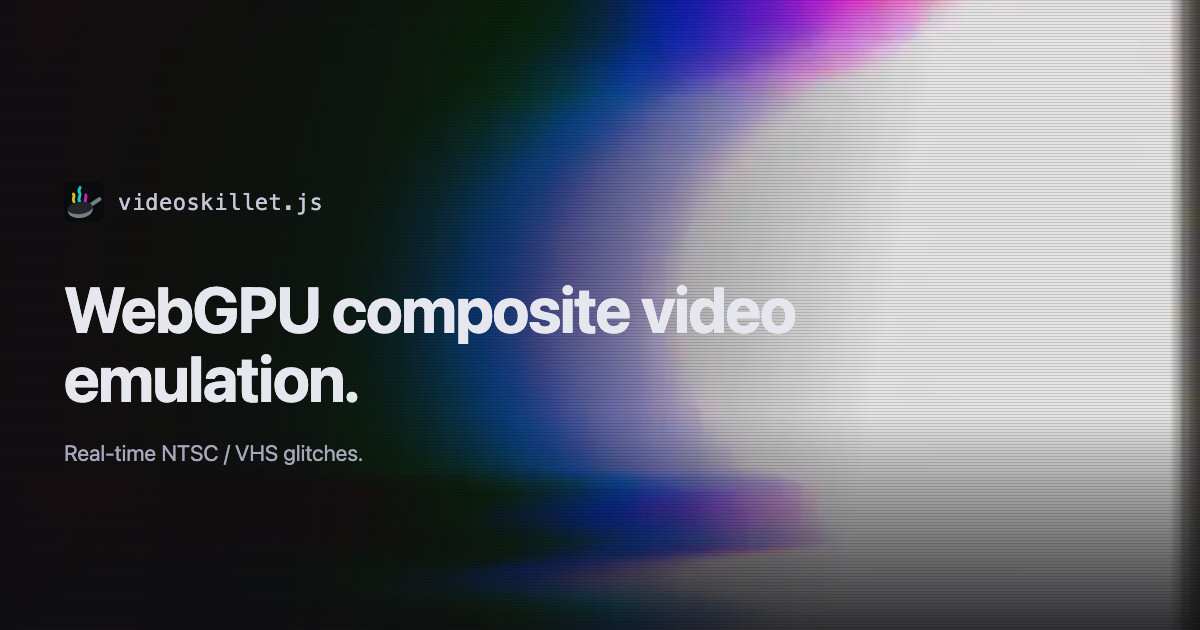
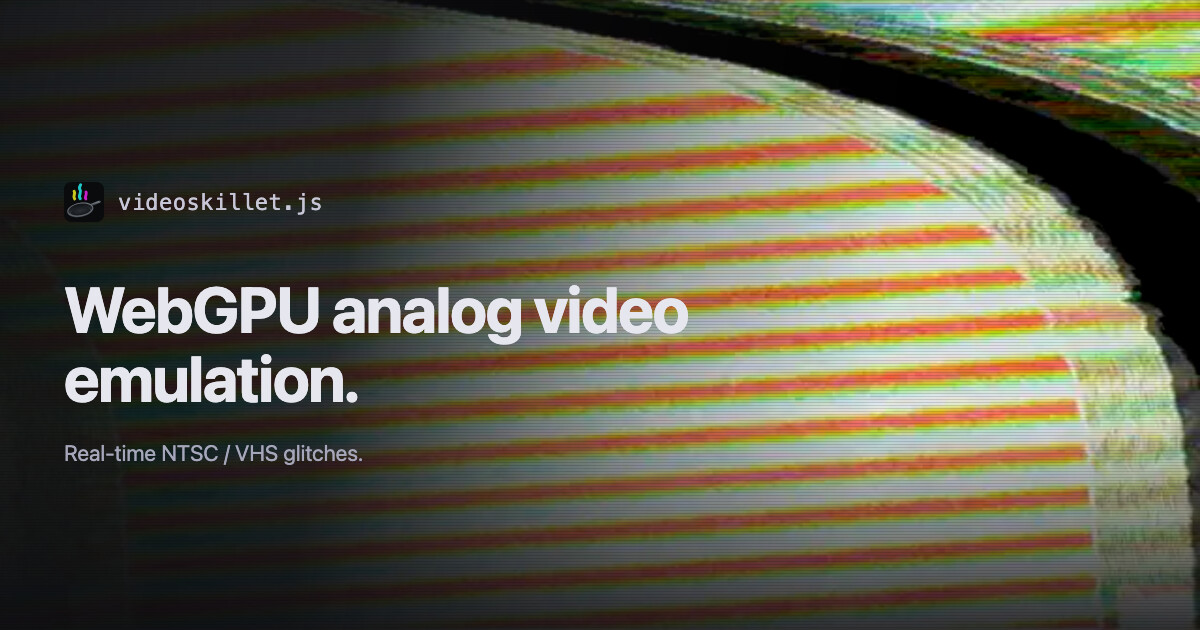
feat(ui): the gallery says what it is a picture of, in the order that says it
Three things, all of them the same argument: a stranger scrolling this page
should be unable to mistake it for a shader.

**The header was a rainbow gradient.** `Ridiculous rainbow` carried `hero`, so
it was the picture behind the title and the ground of every link preview — and
at hero scale it is a soft white blob, which is exactly what the reel's `From
clean` slide was demoted for last commit. `Wiggity` is the same brightness with
scanlines and chroma fringing across a bright arc and a dark corner for the
title to sit in, which is what `demos.mjs` has always said the hero is picked
for. `public/og.jpg` regenerated from it.

**Three cards did not move.** Differencing successive frames at 4fps puts the
gallery between 1.4 and 66 mean levels, and `Ponderorb`, `Fuzzy color bars
feedback` and `Collecting dust` at 0.01, 0.11 and 0.59 — which understates it,
because every frame of those three is statistically identical. They are camera
loops that reached a fixed point before `demoreel.mjs` armed the recorder, so
the clip is eight seconds of one frame and no poster frame would have been the
better one. The first two are off the page on a new `gallery` flag and keep
their line in the README; the third stays, at the bottom, until it is given a
reason not to settle.

**Every card now says which mechanism it is.** "Wonkitize me" over a picture is
a glitch gallery; "a composite loop 2.9µs long, ringing at 0.8 MHz" is the page
[…]

diff --git a/site/tests/landing.test.ts b/site/tests/landing.test.ts
@@ -1,7 +1,7 @@
 import { experimental_AstroContainer } from 'astro/container'
 import { beforeAll, expect, test } from 'vitest'
 
-import { demos, hero, showcase } from '../../scripts/demos.mjs'
+import { demos, gallery, hero, showcase } from '../../scripts/demos.mjs'
 import { beatSecs, NARROW, slides } from '../../scripts/reel.mjs'
 import Landing from '../pages/index.astro'
 
@@ -114,6 +114,7 @@ test('the stage opens on the first slide, and every slide is in it once', () => 
 test('there are demos, and one of them can be a slide', () => {
   expect(demos.length).toBeGreaterThan(3)
   expect(showcase.length).toBeGreaterThan(0)
+  expect(gallery.length).toBeGreaterThan(0)
 })
 
 test.each(demos)('$name has a recording and a still', demo => {
@@ -121,7 +122,28 @@ test.each(demos)('$name has a recording and a still', demo => {
   expect(bytes(demo.still)).toBeGreaterThan(0)
 })
 
-test.each(demos)('$name is a card on the page', demo => {
+test.each(gallery)('$name is a card on the page', demo => {
   expect(page).toContain(demo.href.replaceAll('&', '&amp;'))
   expect(page).toContain(`data-src="${demo.clip}"`)
+})
+
+// A card's own sentence, and the only place on the page that says which
+// mechanism a picture is of. A demo kept out of the gallery still carries one,
+// so that turning it back on is one flag rather than a flag and a caption.
+test.each(demos)('$name says which mechanism it is', demo => {
+  expect(demo.says.length).toBeGreaterThan(20)
+  expect(demo.says.endsWith('.')).toBe(true)
+})
+
+test.each(gallery)('$name has its line under the name', demo => {
+  expect(page).toContain(demo.says.replaceAll("'", '&#39;'))
+})
+
+// Off the page, still in the README: `demos` is what the README prints, so a
+// demo dropped from the gallery has to stay in the list rather than the file.
+test('a demo kept out of the gallery is still a demo', () => {
+  for (const demo of demos.filter(d => !d.gallery)) {
+    expect(page).not.toContain(`data-src="${demo.clip}"`)
+    expect(readFileSync('README.md', 'utf8')).toContain(demo.url)
+  }
 })

diff --git a/site/styles/landing.css b/site/styles/landing.css
@@ -498,7 +498,7 @@ code {
   justify-content: space-between;
   align-items: baseline;
   gap: 0.5rem;
-  padding: 0.7rem 0.85rem;
+  padding: 0.7rem 0.85rem 0.35rem;
   font-size: 0.94rem;
   border-top: 1px solid var(--border);
 }
@@ -506,6 +506,17 @@ code {
   color: var(--fg4);
   font-size: 0.85rem;
   white-space: nowrap;
+}
+/* Which mechanism the card is a picture of. The border above it belongs to
+   `.name`, so the two read as one block under the still rather than as a
+   caption floating off the bottom of the card. */
+.demo .says {
+  display: block;
+  padding: 0 0.85rem 0.75rem;
+  color: var(--fg4);
+  font-size: 0.82rem;
+  line-height: 1.45;
+  text-wrap: pretty;
 }
 .demo:hover .open,
 .demo:focus-visible .open {

diff --git a/README.md b/README.md
@@ -137,44 +137,44 @@ video cables together and posting tumblr gifs.
 
 <!-- generated:demos -->
 
-- Wiggity
-  https://videoskillet.com/app/?p=je.CoDoBwEEAbAEAKwCAfABAKCZAgXgAw2IIwSIAyFYBrAKEjwGmAEEuB4ZVADsBgr4OiSMCQDEAQDgAgAkAUQEBAAQA9wCAMXBAgCJngIAlf4DAI3tAw&mod=bendUs:lorenz:0.390279:0.27759,hvRing:sine:0.037599:0.090209&srcb=synth&src=sweep
-
-- Ridiculous rainbow
-  https://videoskillet.com/app/?p=T2.GKAEE4QCRYQDAMQfAJ8FAowfFYwDAfAMAWAA8AIARAZgJEAIBCKcvgErYA&mod=&srcb=none
-
-- Rainborb
-  https://videoskillet.com/app/?p=zD.GNADE4QCRYQDAJgfANYEAvAlAOQBFNwBAdAFL0AIBCKcvgE&mod=&srcb=none
+- Chaos black and white feedback
+  https://videoskillet.com/app/?p=Nj.FJADAMACAuQDNVAImAIAUALIARaQAwoUAIABANQDApQBAHgARAniAQECCVQk5gMAqAEAqAYAgJ9JA8gB&mod=tapeLoopMm:smooth:0.05:0.0151&srcb=tv+static
 
 - Wonkitize me
   https://videoskillet.com/app/?p=A7.BGgTjAk1NCPEAQCQIACkBgBMAZwhAVwAkAEAHADMARCQAwDQAwDAWwAMAJADANgDAIABAkAA0AEAiAEAwIkBAJADJEAIBCKgnAEfBACgAwCcAQmQAw&mod=&src=ia-random&srcb=tv+static&speeda=0.39
 
-- Chaos black and white feedback
-  https://videoskillet.com/app/?p=Nj.FJADAMACAuQDNVAImAIAUALIARaQAwoUAIABANQDApQBAHgARAniAQECCVQk5gMAqAEAqAYAgJ9JA8gB&mod=tapeLoopMm:smooth:0.05:0.0151&srcb=tv+static
+- I can't believe it's not analog butter
+  https://videoskillet.com/app/?p=3t.GKwxE4gDRYQDAMQfANADAqwiFZADALgDAJg1AAwAkAMAtAQAfAXQbwC0AiRACAQirGwroAE&mod=&srcb=none
+
+- Wiggity
+  https://videoskillet.com/app/?p=je.CoDoBwEEAbAEAKwCAfABAKCZAgXgAw2IIwSIAyFYBrAKEjwGmAEEuB4ZVADsBgr4OiSMCQDEAQDgAgAkAUQEBAAQA9wCAMXBAgCJngIAlf4DAI3tAw&mod=bendUs:lorenz:0.390279:0.27759,hvRing:sine:0.037599:0.090209&srcb=synth&src=sweep
 
 - Fuzzy color bars feedback+dissolver
   https://videoskillet.com/app/?p=qQ.BrAEAMgCAKAGPahOAdACAJADAZwCAHolpAIAoB8AegA6ACgAqCAALABgAEQAEACYARDQAgDUAhsEA0oQsAEIBA&mod=&srcb=vhs+static
 
-- Fuzzy color bars feedback
-  https://videoskillet.com/app/?p=1w.cqQCAKAfAHoAOgAoAKggACwAYABEABAAmAEQ0AIA1AIwsAEIBA&mod=&srcb=vhs+static
-
-- Camera feedback + static
-  https://videoskillet.com/app/?p=IK.GIgEEVQA9AEAYA6AAhHAAQBkDEgEkAMLoAIAtAEE6AICnAEB-CEBKACMAQAgAJADBVxwub4DAKHEAQ&mod=vFreqHz:smooth:0.08:0.0049,fbGain:smooth:0.24:0.06&src=vhs+static
-
 - Dark camera feedback
   https://videoskillet.com/app/?p=CU.CqCsBQEEAcwDAHABXAC8aQLoAgLMBQCsAgOceQR0GPwBCzgAGADYAQAIAjgAuAIImAIAUALIAQCAAQAkArACAXgAFAJ4ADAGXABcApADAKAhAIgBCKwCAOQBAJgRApACAAAAAADwCAdIALAJAAAABAlUJOYDAKgBBcgBAQQ&mod=tapeLoopMm:smooth:0.05:0.0151&srcb=tv+static&src=tv+static
-
-- Ponderorb
-  https://videoskillet.com/app/?p=8A.GIgECaABABwAtCUpNCOQAwCsHACACgKUJQK0ARLEAQGcBwAEAIQCAJQDAEwCbACkAgCkAVKA2QE&mod=
-
-- Collecting dust
-  https://videoskillet.com/app/?p=R2.cqQCAKAfAHoAOgAoAKggACwAYABEABAAmAEQ0AIAoAMw-AIArAICjBAEBEjgLgCoAQ&mod=&srcb=vhs+static
 
 - Laser duck
   https://videoskillet.com/app/?p=pa.KsgBFDQOGAGgAQDgAwJ4BvABIaQBBdAMOngsgJMC&mod=&srcb=ia-random&iurl=https:%2F%2Fthumb.wikimedia.org%2Fwikipedia%2Fcommons%2Fthumb%2Fb%2Fb4%2F20250724_mallard_duckling_wethersfield_cove_PD201227.jpg%2F1280px-20250724_mallard_duckling_wethersfield_cove_PD201227.jpg%3Futm_source%3Dcommons.wikimedia.org%26utm_campaign%3Dimageinfo%26utm_content%3Dthumbnail
 
-- I can't believe it's not analog butter
-  https://videoskillet.com/app/?p=3t.GKwxE4gDRYQDAMQfANADAqwiFZADALgDAJg1AAwAkAMAtAQAfAXQbwC0AiRACAQirGwroAE&mod=&srcb=none
+- Rainborb
+  https://videoskillet.com/app/?p=zD.GNADE4QCRYQDAJgfANYEAvAlAOQBFNwBAdAFL0AIBCKcvgE&mod=&srcb=none
+
+- Ridiculous rainbow
+  https://videoskillet.com/app/?p=T2.GKAEE4QCRYQDAMQfAJ8FAowfFYwDAfAMAWAA8AIARAZgJEAIBCKcvgErYA&mod=&srcb=none
+
+- Camera feedback + static
+  https://videoskillet.com/app/?p=IK.GIgEEVQA9AEAYA6AAhHAAQBkDEgEkAMLoAIAtAEE6AICnAEB-CEBKACMAQAgAJADBVxwub4DAKHEAQ&mod=vFreqHz:smooth:0.08:0.0049,fbGain:smooth:0.24:0.06&src=vhs+static
+
+- Collecting dust
+  https://videoskillet.com/app/?p=R2.cqQCAKAfAHoAOgAoAKggACwAYABEABAAmAEQ0AIAoAMw-AIArAICjBAEBEjgLgCoAQ&mod=&srcb=vhs+static
+
+- Fuzzy color bars feedback
+  https://videoskillet.com/app/?p=1w.cqQCAKAfAHoAOgAoAKggACwAYABEABAAmAEQ0AIA1AIwsAEIBA&mod=&srcb=vhs+static
+
+- Ponderorb
+  https://videoskillet.com/app/?p=8A.GIgECaABABwAtCUpNCOQAwCsHACACgKUJQK0ARLEAQGcBwAEAIQCAJQDAEwCbACkAgCkAVKA2QE&mod=
 
 <!-- /generated:demos -->
 

diff --git a/docs/DEVELOPMENT.md b/docs/DEVELOPMENT.md
@@ -1083,11 +1083,12 @@ pnpm demos:check                 # fail if the checked-in copy is stale (pnpm bu
 
 Two lists feed it. [`../demos.json`](../demos.json) is the looks — the README's
 "Cool demos" bullets, the still behind the title and the gallery of cards, each
-opening the exact board its clip is a recording of. Two of its entries carry a
-flag rather than only a name: `hero` is the one the header shows, which
+opening the exact board its clip is a recording of. An entry carries flags
+rather than only a name: `hero` is the one the header shows, which
 [`../scripts/ogimage.mjs`](../scripts/ogimage.mjs) grounds the link preview in
 too, so the page and the card that stands in for it when it is shared are the
-same picture; `showcase` is the ones the carousel is allowed to play.
+same picture; `showcase` is the ones the carousel is allowed to play; `gallery`
+is whether it gets a card at all; and `says` is the clause under the name.
 [`../scripts/reel.mjs`](../scripts/reel.mjs) is that carousel, which is a
 different thing: recordings of the **app's own window**, with the panel, the map
 and a pointer moving over them.
@@ -1096,6 +1097,34 @@ That split is the point of the page. The picture is what the program makes, and
 the gallery and the header are full of it; the window is what the program _is_,
 and until the carousel held it the one thing a stranger could not work out from
 the page was what using this looks like.
+
+**A card has to move, and three of them did not.** Sampling every clip at 4fps
+and differencing successive frames puts most of the gallery between 1.4 and 66
+mean levels of motion, and `Ponderorb`, `Fuzzy color bars feedback` and
+`Collecting dust` at 0.01, 0.11 and 0.59 — which understates it, because every
+frame of those three is _statistically identical_. They are camera loops that
+have reached a fixed point, and `demoreel.mjs` steps 500 frames of warm-up
+before it arms the recorder precisely so that a loop has filled, so what gets
+recorded is eight seconds of one frame. No poster frame is the wrong one; there
+is nothing at any second of it to catch. The first two are off the page on
+`gallery: false` and keep their line in the README. Making one of them a card
+again means giving the look a reason not to settle — a `mod=` on a row it turns
+on — rather than rerecording it.
+
+**The order is what says analog first**, the same rule the slides are under.
+`Chaos black and white feedback` opens the gallery because it is the liveliest
+thing in it by a factor of three; the orbs and the smooth rainbows are at the
+bottom, because a smooth gradient is the one picture here a stranger can read as
+a shader. `Wiggity` is the header for the other half of that rule — scanlines
+and chroma fringing across a bright arc, over a dark corner a title can sit in.
+
+**Every card says which mechanism it is.** A wall of pictures with names like
+"Wonkitize me" over them is a gallery of glitches; the page's claim is that
+these come out of a signal path, and the line under the name is where the card
+makes it — "a composite loop 2.9µs long, ringing at 0.8 MHz". Those are read off
+the look itself rather than the picture: `unpackControls` (ui/packed.ts) against
+`DEFAULT_CONTROLS` gives the controls the look carries that stock does not,
+which is the same list the app's own "N off stock" shows.
 
 **The slides are ordered by what says analog first.** `build` led the stage
 until it was demoted, and what demoted it is the frame it arrives at: a soft
